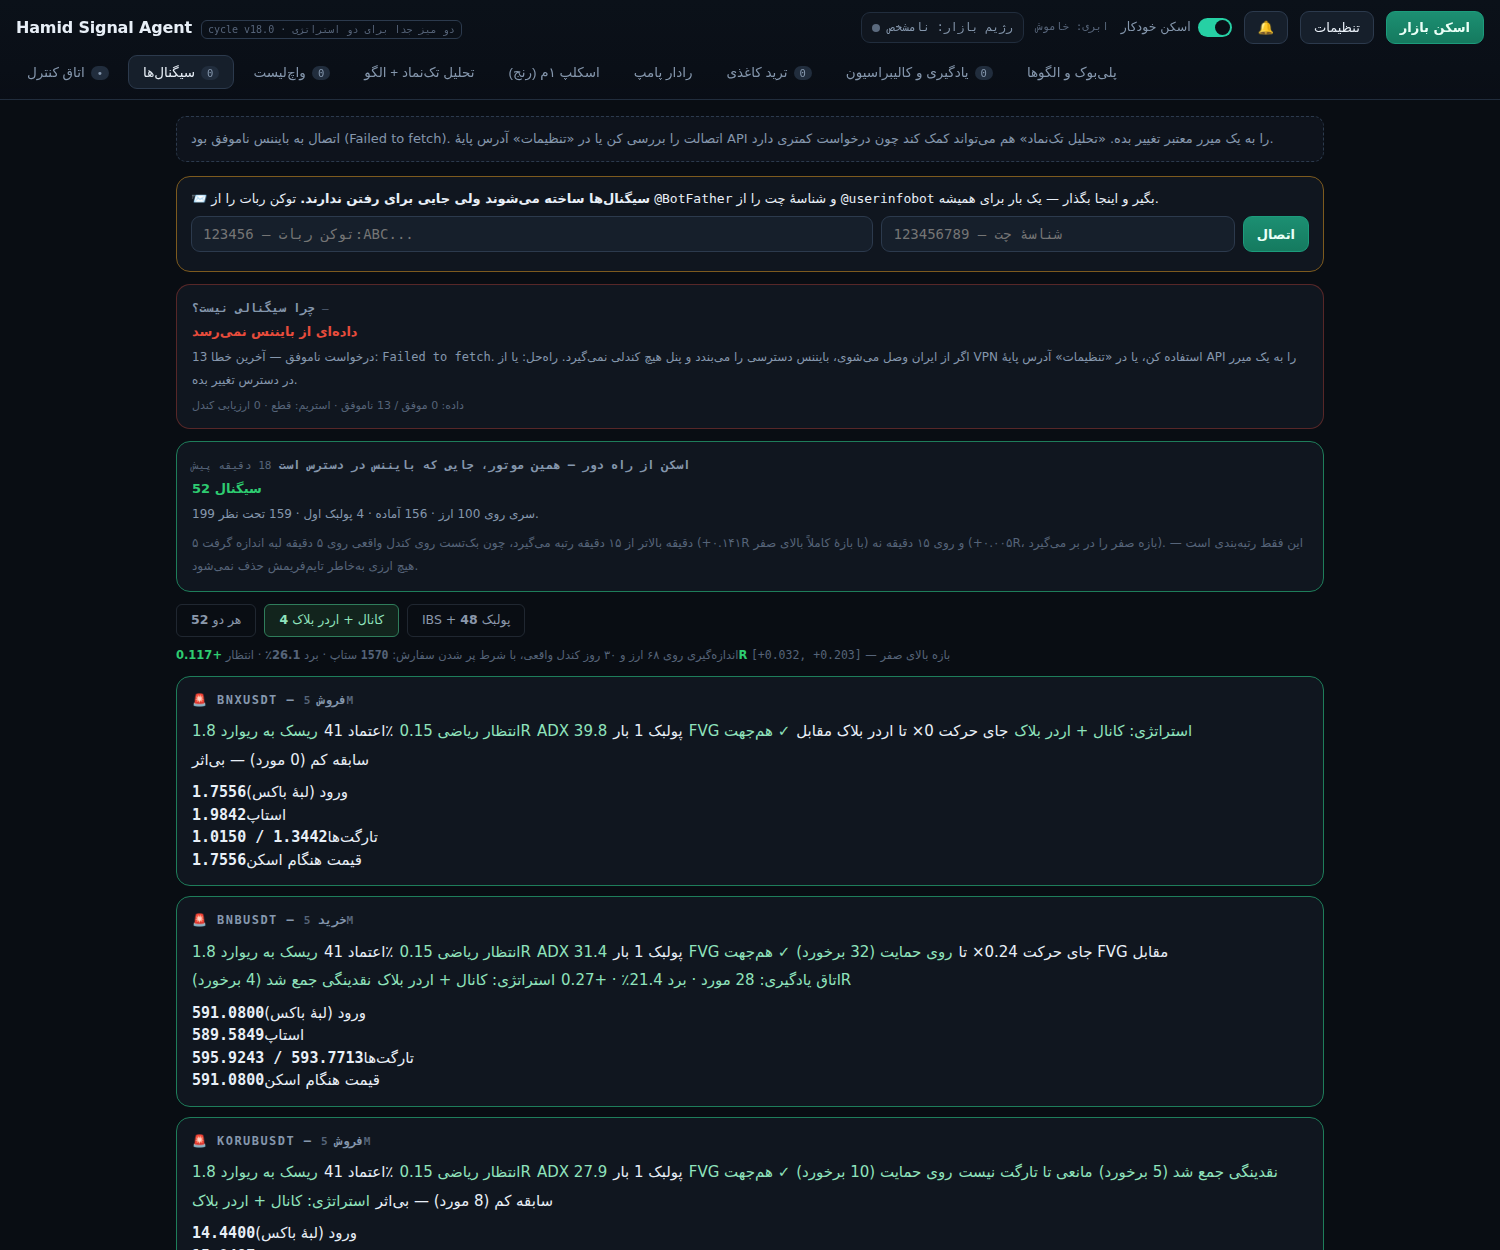
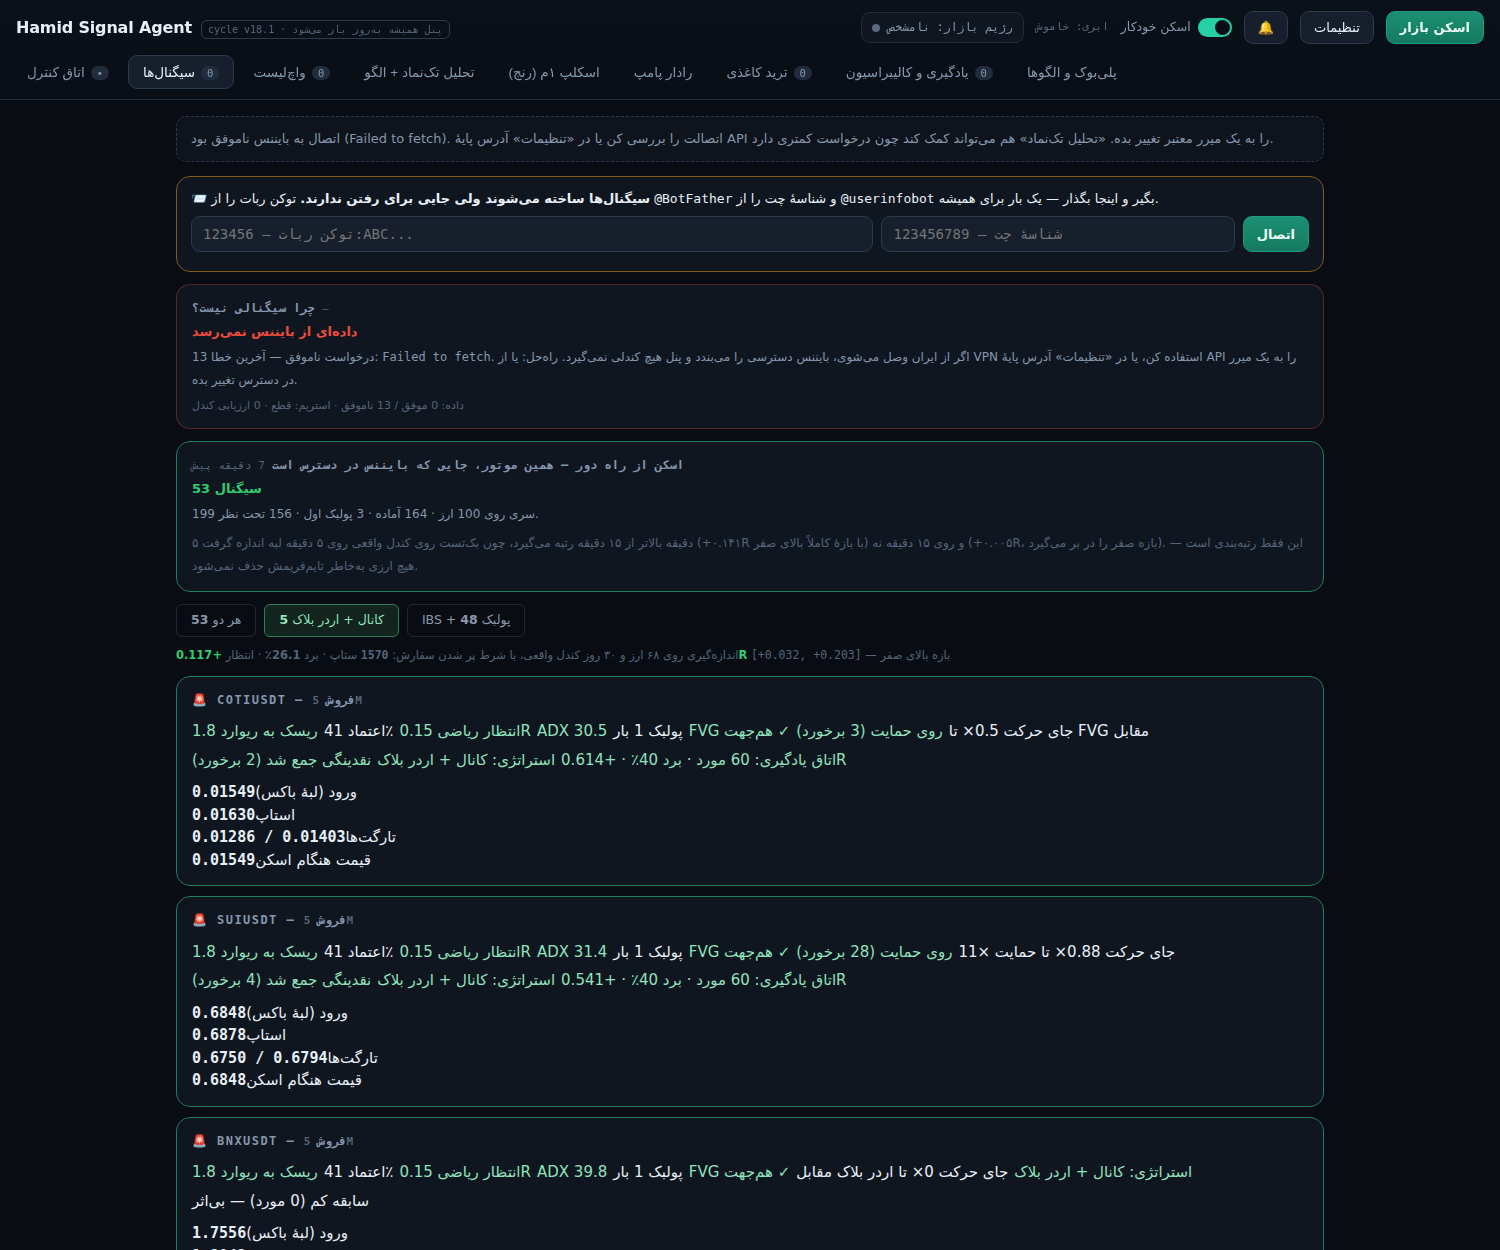
پنل بعد از هر دیپلوی بلافاصله بهروز باز میشود
Reported symptom: clicking the link opened an older panel. Reproduced it rather
than guessed. The service worker answered the page itself cache-first, so after
a deploy the next visit got the cached copy while the new worker was still
installing, and only the visit after that showed the update.

Measured, before: deploy → reload → still v18.0 → reload again → v99.
Measured, after:  deploy → reload → v99.

So the document is fetched network-first now, with the cache kept as the
fallback that makes it open offline. Static assets stay cache-first: they are
versioned by the cache name and only change on a deploy, so there is nothing to
go stale.

tests/sw-freshness.mjs is the reproduction, kept: it caches a page, swaps in a
new build the way a deploy does, and fails if the second visit still serves the
old one.

Claude-Session: https://claude.ai/code/session_01Hmz5ep1FQiSRdvnpYTDsuE

diff --git a/sw.js b/sw.js
@@ -1,7 +1,7 @@
 /* Hamid Signal Agent — service worker
    Caches the app shell so the panel opens instantly (even offline),
    while always going to the network for live market data and the cloud API. */
-const CACHE = "hsa-shell-v18.0";
+const CACHE = "hsa-shell-v18.1";
 const ASSETS = [
   "./",
   "./index.html",
@@ -42,20 +42,40 @@ self.addEventListener("fetch", (e) => {
   // file must never do is go stale.
   if (url.pathname.includes("/signals/")) return;
 
-  // App shell: cache-first, then network. Only a navigation may fall back to
-  // the cached page; a failed asset must fail, not silently become HTML.
+  const save = (resp) => {
+    if (resp && resp.ok && resp.type === "basic") {
+      const copy = resp.clone();
+      caches.open(CACHE).then((c) => c.put(req, copy)).catch(() => {});
+    }
+    return resp;
+  };
+
+  // The page itself: network first, cache only as a fallback.
+  //
+  // Cache-first was wrong here and it showed. A new deploy did not appear on the
+  // next visit — the old page came out of the cache while the new worker was
+  // still installing, and only the visit after that got the update. Measured:
+  // deploy, reload, still the old version; reload again, new version. Anyone
+  // opening the panel to check a change saw the change missing.
+  //
+  // Network-first costs one request the cache could have answered, and buys the
+  // guarantee that what is on screen is what was deployed. The cached copy still
+  // answers when the network does not, so it still opens offline.
+  if (req.mode === "navigate" || (req.destination === "document")) {
+    e.respondWith(
+      fetch(req)
+        .then(save)
+        .catch(() => caches.match(req).then((hit) => hit || caches.match("./index.html")))
+    );
+    return;
+  }
+
+  // Everything else — the chart library, icons, the manifest — is versioned by
+  // the cache name and changes only on a deploy, so cache-first is right for it.
+  // A failed asset must fail rather than silently become HTML.
   e.respondWith(
     caches.match(req).then((hit) =>
-      hit ||
-      fetch(req)
-        .then((resp) => {
-          if (resp && resp.ok && resp.type === "basic") {
-            const copy = resp.clone();
-            caches.open(CACHE).then((c) => c.put(req, copy)).catch(() => {});
-          }
-          return resp;
-        })
-        .catch(() => (req.mode === "navigate" ? caches.match("./index.html") : Response.error()))
+      hit || fetch(req).then(save).catch(() => Response.error())
     )
   );
 });

diff --git a/index.html b/index.html
@@ -217,7 +217,7 @@ input.f{background:var(--panel2);border:1px solid var(--line2);border-radius:9px
 <body dir="ltr">
 <header>
   <div class="bar">
-    <div class="brand"><b>Hamid Signal Agent</b><span class="v" id="ver">cycle v18.0 · دو میز جدا برای دو استراتژی</span></div>
+    <div class="brand"><b>Hamid Signal Agent</b><span class="v" id="ver">cycle v18.1 · پنل همیشه بهروز باز میشود</span></div>
     <div class="regime" id="regime"><span class="dot"></span><span id="regimeTxt">رژیم بازار: نامشخص</span></div>
     <span class="mono" id="syncPill" style="font-size:11px;color:var(--dim)">ابری: خاموش</span>
     <label class="switch" id="autoSw"><span>اسکن خودکار</span><i></i></label>
